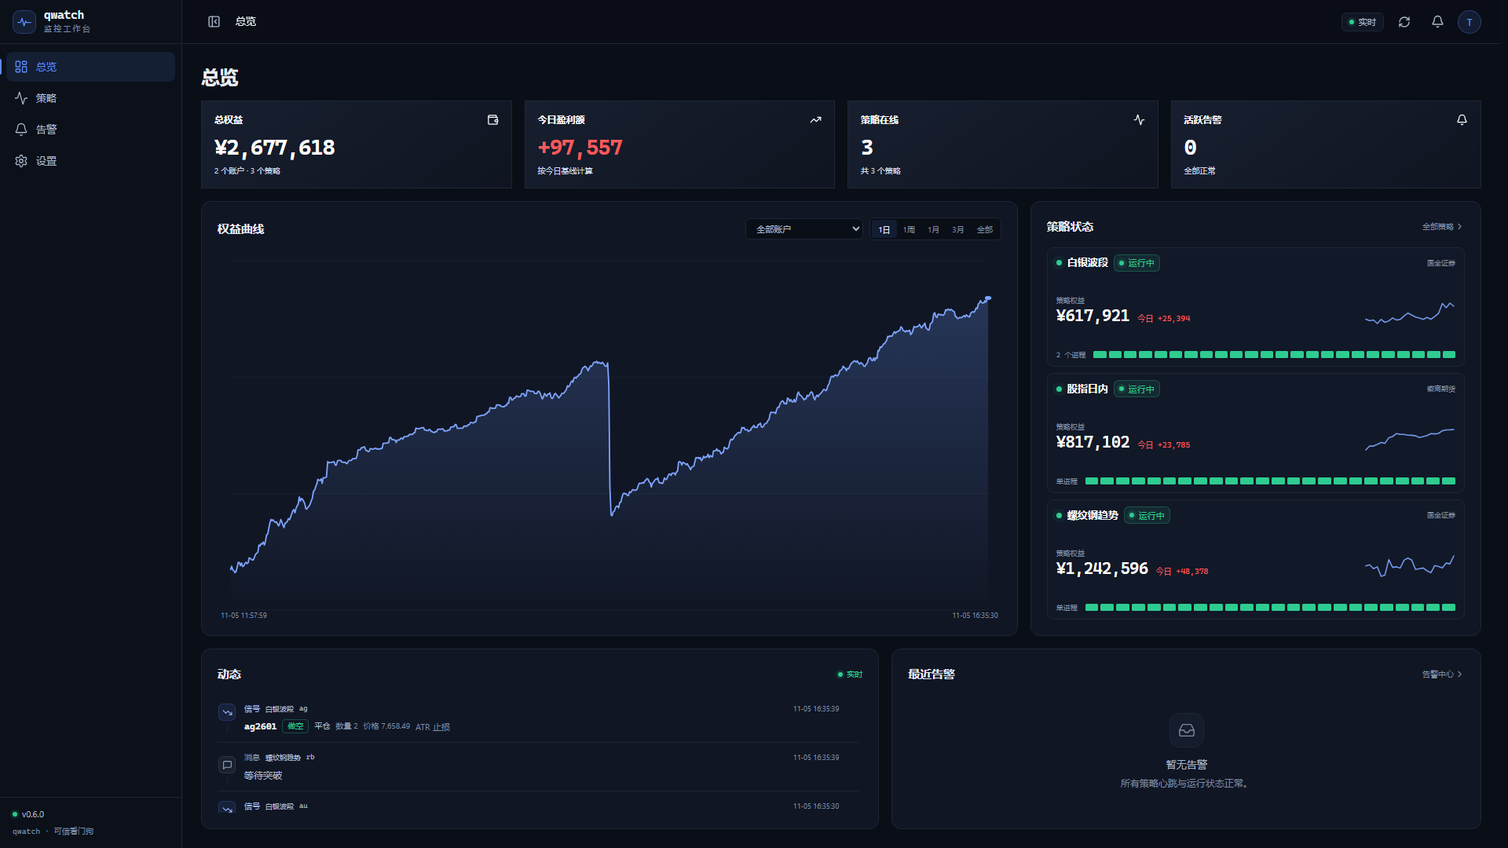
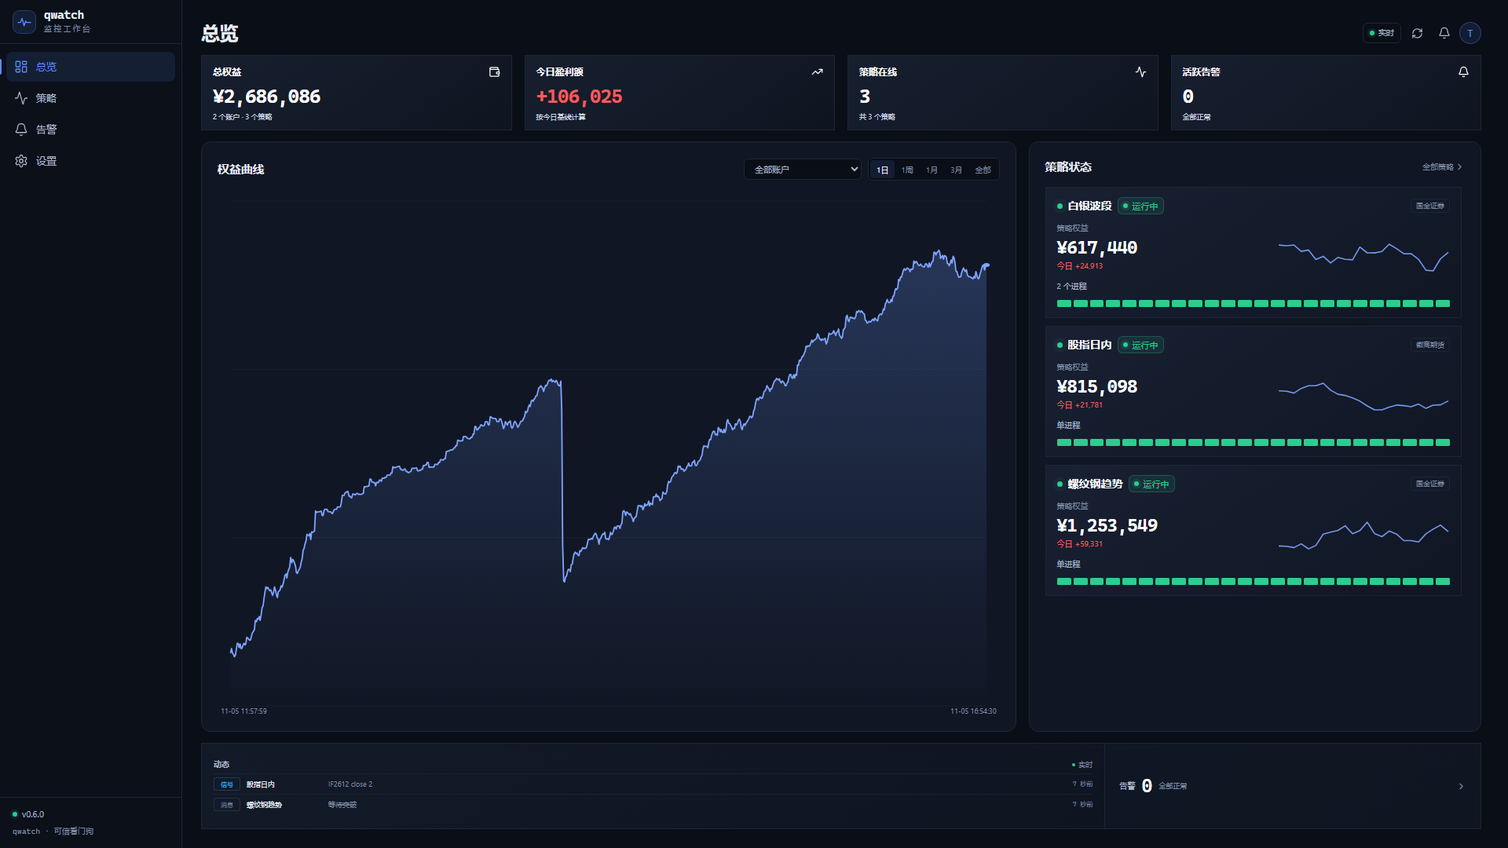
feat: immersive overview with scrollable strategy cards

diff --git a/frontend/src/views/Overview.vue b/frontend/src/views/Overview.vue
@@ -10,15 +10,13 @@ import { useRealtimeStore } from '@/stores/realtime';
 import { useSettingsStore } from '@/stores/settings';
 import { fmtNumber, fromNow } from '@/utils/format';
 import { ruleLabel } from '@/utils/catalog';
-import ActivityFeed from '@/components/ActivityFeed.vue';
 import EmptyState from '@/components/EmptyState.vue';
-import HeartbeatGrid from '@/components/HeartbeatGrid.vue';
+import GroupCard from '@/components/GroupCard.vue';
 import NavChart from '@/components/NavChart.vue';
 import NavSparkline from '@/components/NavSparkline.vue';
 import PageHeader from '@/components/PageHeader.vue';
 import SectionCard from '@/components/SectionCard.vue';
-import StatusDot from '@/components/StatusDot.vue';
-import StatusTag from '@/components/StatusTag.vue';
+import StatusControls from '@/components/StatusControls.vue';
 
 const settings = useSettingsStore();
 const realtime = useRealtimeStore();
@@ -160,7 +158,9 @@ onBeforeUnmount(() => {
 
 <template>
   <div class="page overview-page">
-    <PageHeader title="总览" />
+    <PageHeader title="总览">
+      <template #extra><StatusControls /></template>
+    </PageHeader>
 
     <div v-if="loading && !data" class="skeleton-page">
       <div class="summary-grid">
@@ -224,147 +224,115 @@ onBeforeUnmount(() => {
 
         <SectionCard title="策略状态">
           <template #extra><router-link to="/strategies" class="link-more">全部策略 <ChevronRight :size="13" /></router-link></template>
-          <div v-if="sortedRunners.length" class="ov-status-list">
-            <router-link v-for="runner in sortedRunners" :key="runner.id" :to="'/strategies/' + runner.id" class="ov-status-row">
-              <div class="ov-row-top">
-                <StatusDot :status="runner.status" :size="7" :pulse="runner.status === 'running'" />
-                <strong class="ov-row-name">{{ runner.name }}</strong>
-                <StatusTag :status="runner.status" compact />
-                <span class="ov-row-account">{{ runner.account_name }}</span>
-              </div>
-              <div class="ov-row-main">
-                <div class="ov-row-value"><span>策略权益</span><strong class="mono">{{ runner.equity !== null && runner.equity !== undefined ? '¥' + fmtNumber(runner.equity, 0) : '—' }}</strong></div>
-                <span class="ov-row-today" :class="Number(runner.today_pnl) >= 0 ? 'up' : 'down'">今日 {{ runner.today_pnl !== null && runner.today_pnl !== undefined ? (Number(runner.today_pnl) >= 0 ? '+' : '') + fmtNumber(runner.today_pnl, 0) : '—' }}</span>
-                <NavSparkline v-if="runner.equity_sparkline?.length" class="spark" :values="runner.equity_sparkline" :width="116" :height="30" />
-              </div>
-              <div class="ov-row-foot">
-                <span>{{ runner.process_count > 1 ? runner.process_count + ' 个进程' : '单进程' }}</span>
-                <HeartbeatGrid stretch :status="runner.status" :last-seen="runner.last_seen" />
-              </div>
-            </router-link>
+          <div v-if="sortedRunners.length" class="strategy-column">
+            <GroupCard v-for="runner in sortedRunners" :key="runner.id" :runner="runner" />
           </div>
           <EmptyState v-else compact title="还没有策略" description="前往「策略」页新建策略并生成接入令牌。" />
         </SectionCard>
       </div>
 
-      <div class="overview-bottom">
-        <SectionCard title="动态">
-          <template #extra><span class="live-hint" :class="{ live: realtime.live }"><StatusDot :status="realtime.live ? 'running' : 'warn'" :size="6" />{{ realtime.live ? '实时' : '轮询' }}</span></template>
-          <div class="activity-scroll">
-            <ActivityFeed :events="recentEvents" show-runner clickable empty-title="暂无动态" empty-desc="策略上报消息或信号后会出现在这里。" @select="openEvent" />
-          </div>
-        </SectionCard>
-        <SectionCard title="最近告警">
-          <template #extra><router-link to="/alerts" class="link-more">告警中心 <ChevronRight :size="13" /></router-link></template>
-          <div v-if="recentAlerts.length" class="alert-feed">
-            <router-link v-for="alert in recentAlerts" :key="alert.id" to="/alerts" class="alert-item">
-              <span class="rule-chip">{{ ruleLabel(alert.rule) }}</span>
-              <div class="alert-body"><p class="alert-summary">{{ alert.summary }}</p><p class="alert-meta mono">{{ alert.runner_name }} · {{ fromNow(alert.starts_at) }}</p></div>
-              <span class="alert-status" :class="alert.status">{{ alert.status === 'firing' ? '触发中' : alert.status === 'acknowledged' ? '已确认' : '已恢复' }}</span>
-            </router-link>
-          </div>
-          <EmptyState v-else compact title="暂无告警" description="所有策略心跳与运行状态正常。" />
-        </SectionCard>
+      <div class="overview-ticker">
+        <div class="ticker-feed">
+          <div class="ticker-head"><span>动态</span><span class="ticker-live"><i />实时</span></div>
+          <button v-for="event in recentEvents.slice(0, 2)" :key="event.id" type="button" class="ticker-event" @click="openEvent(event)">
+            <span class="ticker-type" :class="event.type">{{ event.type === 'signal' ? '信号' : '消息' }}</span>
+            <strong>{{ event.runner_name || event.instrument }}</strong>
+            <span class="ticker-text">{{ event.type === 'signal' ? event.symbol + ' ' + event.action + ' ' + event.qty : event.text }}</span>
+            <time>{{ fromNow(event.ts) }}</time>
+          </button>
+        </div>
+        <router-link to="/alerts" class="ticker-alert" :class="{ active: summary.activeAlerts > 0 }">
+          <span class="ticker-alert-label">告警</span>
+          <strong>{{ summary.activeAlerts }}</strong>
+          <span>{{ summary.activeAlerts > 0 ? '需要处理' : '全部正常' }}</span>
+          <ChevronRight :size="13" />
+        </router-link>
       </div>
     </template>
   </div>
 </template>
 
 <style scoped>
-.overview-page { height: 100%; min-height: 0; overflow: hidden; }
-.overview-page > .summary-grid { flex: none; }
+.overview-page { height: 100%; min-height: 0; overflow: hidden; gap: 14px; }
+.overview-page > .summary-grid { flex: none; height: 96px; }
 .skeleton-page { display: flex; flex-direction: column; gap: var(--gap); }
 .summary-grid { display: grid; grid-template-columns: repeat(4, minmax(0, 1fr)); gap: var(--gap); }
-.ov-kpi { display: flex; flex-direction: column; align-items: flex-start; min-height: 104px; padding: 14px 16px; border: 1px solid var(--border); border-radius: var(--radius-lg); background: linear-gradient(145deg, rgba(29, 38, 58, 0.7), rgba(17, 23, 36, 0.7)); color: inherit; }
+.ov-kpi { display: flex; flex-direction: column; align-items: flex-start; min-height: 0; padding: 11px 14px; border: 1px solid var(--border); border-radius: var(--radius-lg); background: linear-gradient(145deg, rgba(29, 38, 58, 0.7), rgba(17, 23, 36, 0.7)); color: inherit; }
 .ov-kpi-top { width: 100%; display: flex; align-items: center; justify-content: space-between; color: #ffffff; font-size: 12px; font-weight: 600; }
 .ov-kpi-label { color: #ffffff; font-weight: 600; }
-.ov-kpi-value { width: 100%; margin-top: 10px; font-family: var(--font-mono); font-size: 28px; font-weight: 700; letter-spacing: -0.04em; color: #ffffff; text-align: left; white-space: nowrap; line-height: 1.15; }
+.ov-kpi-value { width: 100%; margin-top: 8px; font-family: var(--font-mono); font-size: 25px; font-weight: 700; letter-spacing: -0.04em; color: #ffffff; text-align: left; white-space: nowrap; line-height: 1.15; }
 .ov-kpi-value.up { color: var(--up); }
 .ov-kpi-value.down { color: var(--down); }
 .ov-kpi-value.danger, .danger { color: var(--danger); }
-.ov-kpi-foot { margin-top: auto; padding-top: 6px; color: #cbd5e5; font-size: 10px; }
+.ov-kpi-foot { margin-top: auto; padding-top: 5px; color: #cbd5e5; font-size: 9px; }
 .ov-kpi.link:hover { border-color: var(--border-strong); }
-.overview-main { flex: 1; min-height: 0; display: grid; grid-template-columns: minmax(0, 1.72fr) minmax(360px, 0.95fr); gap: var(--gap); align-items: stretch; }
+.up { color: var(--up) !important; }
+.down { color: var(--down) !important; }
+
+.overview-main { flex: 1; min-height: 0; display: grid; grid-template-columns: minmax(0, 1.8fr) minmax(400px, 1fr); gap: var(--gap); align-items: stretch; }
 .overview-main > :deep(.section-card) { height: 100%; min-height: 0; }
 .overview-main :deep(.panel-head) { flex: none; }
 .chart-wrap { flex: 1; min-height: 0; display: flex; }
 .chart-wrap :deep(.nav-chart) { height: 100% !important; }
-.overview-main .strategy-column { flex: 1; min-height: 0; max-height: none; }
-.ov-status-list { flex: 1; min-height: 0; display: flex; flex-direction: column; gap: 8px; }
-.ov-status-row { flex: 1; min-height: 0; display: flex; flex-direction: column; justify-content: space-between; gap: 5px; padding: 8px 11px; border: 1px solid var(--border); border-radius: 8px; background: rgba(21, 28, 44, 0.38); color: inherit; transition: border-color 150ms ease, background-color 150ms ease; }
-.ov-status-row:hover { border-color: var(--border-strong); background: rgba(26, 35, 54, 0.7); }
-.ov-row-top { display: flex; align-items: center; gap: 7px; min-width: 0; }
-.ov-row-name { min-width: 0; color: #fff; font-size: 13px; font-weight: 600; overflow: hidden; white-space: nowrap; text-overflow: ellipsis; }
-.ov-row-account { margin-left: auto; max-width: 110px; color: var(--text-3); font-size: 9px; overflow: hidden; white-space: nowrap; text-overflow: ellipsis; }
-.ov-row-main { display: flex; align-items: flex-end; gap: 10px; min-width: 0; }
-.ov-row-value { display: flex; flex-direction: column; gap: 1px; min-width: 0; }
-.ov-row-value span { color: var(--text-3); font-size: 9px; }
-.ov-row-value strong { color: #fff; font: 600 21px/1.1 var(--font-mono); letter-spacing: -0.03em; white-space: nowrap; }
-.ov-row-today { padding-bottom: 2px; font: 10px var(--font-mono); white-space: nowrap; }
-.ov-row-main .spark { margin-left: auto; width: 116px; flex: none; opacity: 0.9; }
-.ov-row-foot { display: flex; align-items: center; gap: 10px; min-width: 0; color: var(--text-3); font: 9px var(--font-mono); }
-.ov-row-foot .hb-grid { flex: 1; min-width: 0; }
-.up { color: var(--up) !important; }
-.down { color: var(--down) !important; }
+.chart-wrap { transition: opacity 160ms ease; }
+.chart-wrap.dimmed { opacity: 0.55; }
+
 .chart-tools { display: flex; align-items: center; gap: 8px; flex-wrap: wrap; }
 .chart-select { height: 27px; min-width: 150px; max-width: 220px; padding: 0 24px 0 9px; border: 1px solid var(--border); border-radius: 6px; background: var(--bg); color: var(--text-2); font-size: 11px; outline: none; cursor: pointer; }
 .range-tabs { display: inline-flex; padding: 2px; border: 1px solid var(--border); border-radius: 6px; background: var(--bg); }
 .range-tabs button { height: 23px; padding: 0 8px; border: 0; border-radius: 4px; background: transparent; color: var(--text-3); font-size: 10px; cursor: pointer; }
 .range-tabs button.active { background: var(--primary-soft); color: var(--text); }
-.chart-wrap { transition: opacity 160ms ease; }
-.chart-wrap.dimmed { opacity: 0.55; }
+
 .strategy-column { display: flex; flex: 1; flex-direction: column; gap: 10px; min-height: 0; overflow-y: auto; overscroll-behavior: contain; padding-right: 4px; scrollbar-width: thin; scrollbar-color: #2b3a55 transparent; }
+.strategy-column :deep(.group-card) { flex: 0 0 auto; }
 .strategy-column::-webkit-scrollbar { width: 5px; }
 .strategy-column::-webkit-scrollbar-thumb { background: #2b3a55; border-radius: 999px; }
 .strategy-column::-webkit-scrollbar-track { background: transparent; }
-.activity-scroll { max-height: 460px; overflow-y: auto; overscroll-behavior: contain; padding-right: 4px; scrollbar-width: thin; scrollbar-color: #2b3a55 transparent; }
-.activity-scroll::-webkit-scrollbar { width: 5px; }
-.activity-scroll::-webkit-scrollbar-thumb { background: #2b3a55; border-radius: 999px; }
-.activity-scroll::-webkit-scrollbar-track { background: transparent; }
-.live-hint { display: inline-flex; align-items: center; gap: 5px; color: var(--text-3); font-size: 10px; }
-.live-hint.live { color: var(--down); }
-.overview-bottom { flex: none; height: 230px; min-height: 0; display: grid; grid-template-columns: minmax(0, 1.15fr) minmax(0, 1fr); gap: var(--gap); }
-.overview-bottom > :deep(.section-card) { height: 100%; min-height: 0; }
-.overview-bottom .activity-scroll { flex: 1; min-height: 0; max-height: none; }
-.overview-bottom .alert-feed { flex: 1; min-height: 0; overflow-y: auto; }
-.alert-feed { display: flex; flex-direction: column; }
-.alert-item { display: flex; align-items: flex-start; gap: 9px; padding: 9px 0; border-bottom: 1px solid var(--border); color: inherit; }
-.alert-item:last-child { border-bottom: 0; }
-.rule-chip { flex: 0 0 auto; padding: 2px 5px; border: 1px solid rgba(240, 68, 56, 0.25); border-radius: 4px; color: #f47c74; font-size: 9px; }
-.alert-body { min-width: 0; flex: 1; }
-.alert-summary { font-size: 11px; line-height: 1.5; color: var(--text-2); }
-.alert-meta { margin-top: 2px; font-size: 9px; color: var(--text-3); }
-.alert-status { font-size: 9px; color: var(--text-3); white-space: nowrap; }
 .link-more { display: inline-flex; align-items: center; gap: 1px; color: var(--text-3); font-size: 10px; }
 .link-more:hover { color: var(--text-2); }
+
+.overview-ticker { flex: none; height: 110px; display: grid; grid-template-columns: minmax(0, 2.4fr) minmax(230px, 1fr); border: 1px solid var(--border); border-radius: var(--radius-lg); background: linear-gradient(145deg, rgba(22, 30, 47, 0.72), rgba(14, 20, 32, 0.8)); overflow: hidden; }
+.ticker-feed { min-width: 0; padding: 9px 15px 8px; display: flex; flex-direction: column; justify-content: center; }
+.ticker-head { display: flex; align-items: center; justify-content: space-between; margin-bottom: 3px; color: var(--text-2); font-size: 10px; font-weight: 600; }
+.ticker-live { display: inline-flex; align-items: center; gap: 4px; color: var(--text-3); font-size: 9px; font-weight: 400; }
+.ticker-live i { width: 4px; height: 4px; border-radius: 50%; background: var(--down); }
+.ticker-event { display: grid; grid-template-columns: 34px 96px minmax(0, 1fr) auto; align-items: center; gap: 8px; width: 100%; padding: 4px 0; border: 0; border-top: 1px solid rgba(125, 139, 161, 0.1); background: transparent; color: inherit; text-align: left; cursor: pointer; }
+.ticker-event:hover { color: #fff; }
+.ticker-type { padding: 2px 4px; border: 1px solid rgba(56, 189, 248, 0.22); border-radius: 3px; color: #38bdf8; font-size: 8px; text-align: center; }
+.ticker-type.message { border-color: rgba(125, 139, 161, 0.22); color: var(--text-3); }
+.ticker-event strong { color: var(--text); font-size: 9px; font-weight: 500; white-space: nowrap; overflow: hidden; text-overflow: ellipsis; }
+.ticker-text { color: var(--text-3); font-size: 9px; white-space: nowrap; overflow: hidden; text-overflow: ellipsis; }
+.ticker-event time { color: var(--text-3); font: 8px var(--font-mono); white-space: nowrap; }
+.ticker-alert { display: flex; align-items: center; gap: 8px; padding: 0 18px; border-left: 1px solid var(--border); color: var(--text-3); background: rgba(21, 28, 44, 0.35); }
+.ticker-alert:hover { background: rgba(28, 38, 58, 0.55); }
+.ticker-alert-label { font-size: 10px; color: var(--text-2); }
+.ticker-alert strong { color: #fff; font: 600 24px var(--font-mono); line-height: 1; }
+.ticker-alert span:nth-of-type(2) { color: var(--text-3); font-size: 9px; }
+.ticker-alert svg { margin-left: auto; color: var(--text-3); }
+.ticker-alert.active { border-left-color: rgba(240, 68, 56, 0.35); }
+.ticker-alert.active strong, .ticker-alert.active span:nth-of-type(2) { color: var(--danger); }
+
 @media (max-height: 820px) {
   .overview-page { gap: 12px; }
   .overview-page > .summary-grid { height: 88px; }
-  .ov-kpi { min-height: 80px; padding: 9px 12px; }
+  .ov-kpi { padding: 9px 12px; }
   .ov-kpi-value { margin-top: 6px; font-size: 22px; }
   .ov-kpi-foot { font-size: 8px; }
-  .overview-bottom { height: 170px; }
-  .ov-status-list { gap: 6px; }
-  .ov-status-row { padding: 6px 9px; gap: 3px; }
-  .ov-row-name { font-size: 11px; }
-  .ov-row-value span { display: none; }
-  .ov-row-value strong { font-size: 18px; }
-  .ov-row-main { align-items: center; gap: 8px; }
-  .ov-row-main .spark { width: 104px; }
-  .ov-row-foot { font-size: 8px; }
-  .ov-row-foot > span:first-child { display: none; }
-  .overview-bottom :deep(.empty) { padding: 6px 4px; }
-  .overview-bottom :deep(.icon) { width: 26px; height: 26px; margin-bottom: 3px; border-radius: 8px; }
-  .overview-bottom :deep(.title) { font-size: 11px; }
-  .overview-bottom :deep(.desc) { display: none; }
+  .overview-ticker { height: 96px; }
+  .ticker-feed { padding: 7px 13px 6px; }
+  .ticker-event { padding: 3px 0; }
+  .ticker-alert strong { font-size: 21px; }
 }
 @media (max-width: 1100px) {
   .summary-grid { grid-template-columns: repeat(2, minmax(0, 1fr)); }
   .overview-page { height: auto; overflow: visible; }
-  .overview-main { flex: none; min-height: 520px; grid-template-columns: minmax(0, 1fr); }
-  .overview-bottom { height: 260px; }
+  .overview-main { flex: none; min-height: 560px; grid-template-columns: minmax(0, 1fr); }
   .overview-main > :deep(.section-card) { height: auto; }
-  .strategy-column { max-height: 520px; }
+  .strategy-column { max-height: 560px; }
+  .overview-ticker { height: 110px; }
+}
+@media (max-width: 899px) {
+  .overview-page :deep(.status-controls) { display: none; }
 }
 @media (max-width: 760px) {
   .summary-grid { grid-template-columns: repeat(2, minmax(0, 1fr)); }
@@ -373,5 +341,7 @@ onBeforeUnmount(() => {
   .chart-tools { align-items: flex-start; flex-direction: column; width: 100%; }
   .chart-select { width: 100%; max-width: none; }
   .range-tabs { align-self: stretch; justify-content: space-between; }
+  .overview-ticker { height: auto; grid-template-columns: 1fr; }
+  .ticker-alert { min-height: 66px; border-left: 0; border-top: 1px solid var(--border); }
 }
 </style>

diff --git a/frontend/src/components/StatusControls.vue b/frontend/src/components/StatusControls.vue
@@ -1,0 +1,87 @@
+<script setup lang="ts">
+// StatusControls.vue — 顶栏状态控制组：实时/刷新/告警/账号；总览沉浸模式下复用。
+import { computed, onBeforeUnmount, onMounted, ref, watch } from 'vue';
+import { useRouter } from 'vue-router';
+import { NDropdown, useMessage } from 'naive-ui';
+import { Bell, RefreshCw } from 'lucide-vue-next';
+import { api, apiMeta } from '@/api/client';
+import { useAuthStore } from '@/stores/auth';
+import { useRealtimeStore } from '@/stores/realtime';
+import { useSettingsStore } from '@/stores/settings';
+import StatusDot from './StatusDot.vue';
+
+const router = useRouter();
+const message = useMessage();
+const auth = useAuthStore();
+const realtime = useRealtimeStore();
+const settings = useSettingsStore();
+const alertCount = ref(0);
+let timer: number | undefined;
+
+const stream = computed(() => {
+  if (realtime.live) return { text: '实时', dot: 'running' as const, title: 'SSE 实时连接正常' };
+  if (realtime.state === 'connecting') return { text: '连接中', dot: 'warn' as const, title: '正在建立 SSE 实时连接' };
+  if (realtime.state === 'reconnecting') return { text: '重连中', dot: 'warn' as const, title: '实时连接中断，自动重连中' };
+  return { text: '轮询', dot: 'warn' as const, title: '实时连接不可用，使用轮询兜底' };
+});
+const userOptions = computed(() => [
+  { key: 'account', label: auth.user?.name || 'Trader', disabled: true },
+  { type: 'divider', key: 'd1' },
+  { key: 'logout', label: '退出登录' },
+]);
+
+async function loadAlertCount(): Promise<void> {
+  try { alertCount.value = (await api.alerts('active')).active_count; }
+  catch { /* 顶栏不阻塞页面 */ }
+}
+function refresh(): void {
+  settings.triggerRefresh();
+  void loadAlertCount();
+}
+function onUserSelect(key: string): void {
+  if (key !== 'logout') return;
+  auth.logout().finally(() => {
+    message.success('已退出登录');
+    router.replace('/login');
+  });
+}
+function onAlertsChanged(): void { void loadAlertCount(); }
+watch(() => realtime.lastAlertChangeAt, () => { void loadAlertCount(); });
+onMounted(() => {
+  void loadAlertCount();
+  timer = window.setInterval(loadAlertCount, 60000);
+  window.addEventListener('qwatch:alerts-changed', onAlertsChanged);
+});
+onBeforeUnmount(() => {
+  window.clearInterval(timer);
+  window.removeEventListener('qwatch:alerts-changed', onAlertsChanged);
+});
+</script>
+
+<template>
+  <div class="status-controls">
+    <span class="stream" :title="stream.title"><StatusDot :status="stream.dot" :size="6" />{{ stream.text }}</span>
+    <button class="ctl" type="button" aria-label="刷新" title="刷新全部数据" @click="refresh">
+      <RefreshCw :size="15" :class="{ spinning: apiMeta.pending > 0 }" />
+    </button>
+    <button class="ctl bell" :class="{ 'has-alerts': alertCount > 0 }" type="button" aria-label="告警中心" title="告警中心" @click="router.push('/alerts')">
+      <Bell :size="16" />
+      <span v-if="alertCount" class="dot">{{ alertCount > 9 ? '9+' : alertCount }}</span>
+    </button>
+    <n-dropdown trigger="click" :options="userOptions" @select="onUserSelect">
+      <button class="avatar" type="button" :aria-label="'账号：' + (auth.user?.name || 'Trader')">{{ (auth.user?.name || 'T').slice(0, 1).toUpperCase() }}</button>
+    </n-dropdown>
+  </div>
+</template>
+
+<style scoped>
+.status-controls { display: flex; align-items: center; gap: 6px; }
+.stream { display: inline-flex; align-items: center; gap: 5px; height: 26px; padding: 0 8px; border: 1px solid var(--border); border-radius: 6px; color: var(--text-2); font-size: 10px; white-space: nowrap; }
+.ctl { position: relative; width: 28px; height: 28px; display: grid; place-items: center; border: 1px solid transparent; border-radius: 7px; background: transparent; color: var(--text-2); cursor: pointer; }
+.ctl:hover { border-color: var(--border); background: var(--surface-2); color: var(--text); }
+.ctl.has-alerts { color: #ff8f86; background: rgba(240,68,56,.08); border-color: rgba(240,68,56,.2); }
+.dot { position: absolute; top: -4px; right: -5px; min-width: 15px; height: 15px; padding: 0 3px; display: grid; place-items: center; border-radius: 8px; border: 2px solid var(--bg); background: #f04438; color: #fff; font: 9px var(--font-mono); }
+.avatar { width: 28px; height: 28px; border-radius: 50%; border: 1px solid rgba(91,140,255,.32); background: var(--primary-soft); color: var(--primary); font: 600 11px var(--font); cursor: pointer; }
+.spinning { animation: spin .9s linear infinite; }
+@keyframes spin { to { transform: rotate(360deg); } }
+</style>

diff --git a/frontend/src/layouts/AppShell.vue b/frontend/src/layouts/AppShell.vue
@@ -15,6 +15,7 @@ import { useAuthStore } from '@/stores/auth';
 import { useRealtimeStore } from '@/stores/realtime';
 import { useSettingsStore } from '@/stores/settings';
 import BrandMark from '@/components/BrandMark.vue';
+import StatusControls from '@/components/StatusControls.vue';
 import StatusDot from '@/components/StatusDot.vue';
 
 interface NavItem { to: string; label: string; icon: Component; badge?: boolean }
@@ -43,6 +44,8 @@ let mql: MediaQueryList | null = null;
 const collapsed = computed(() => !isMobile.value && settings.collapsed);
 const activePath = computed(() => route.path);
 const breadcrumbParent = computed(() => route.meta.parent || null);
+const isOverview = computed(() => route.name === 'overview');
+const showTopbar = computed(() => !isOverview.value || isMobile.value);
 
 const streamChip = computed(() => {
   if (realtime.live) return { text: '实时', dot: 'running' as const, title: 'SSE 实时连接正常' };
@@ -164,7 +167,7 @@ onBeforeUnmount(() => {
     <div v-if="isMobile && drawerOpen" class="overlay" @click="drawerOpen = false" />
 
     <div class="main">
-      <header class="topbar">
+      <header v-if="showTopbar" class="topbar">
         <div class="topbar-left">
           <button class="icon-btn" type="button" :aria-label="isMobile ? '打开菜单' : collapsed ? '展开侧栏' : '收起侧栏'" @click="onMenuClick">
             <component :is="isMobile ? Menu : collapsed ? PanelLeftOpen : PanelLeftClose" :size="17" />
@@ -177,31 +180,7 @@ onBeforeUnmount(() => {
             <span class="current">{{ route.meta.title }}</span>
           </div>
         </div>
-        <div class="topbar-right">
-          <span class="stream-chip" :title="streamChip.title">
-            <StatusDot :status="streamChip.dot" :size="6" />
-            <span class="stream-text">{{ streamChip.text }}</span>
-          </span>
-            <button class="icon-btn" type="button" aria-label="刷新" title="刷新全部数据" @click="onRefresh">
-            <RefreshCw :size="16" :class="{ spinning: apiMeta.pending > 0 }" />
-          </button>
-          <button
-            class="icon-btn bell"
-            :class="{ 'has-alerts': alertCount > 0 }"
-            type="button"
-            aria-label="告警中心"
-            title="告警中心"
-            @click="router.push('/alerts')"
-          >
-            <Bell :size="17" />
-            <span v-if="alertCount > 0" class="bell-dot">{{ alertCount > 9 ? '9+' : alertCount }}</span>
-          </button>
-          <n-dropdown trigger="click" :options="userOptions" @select="onUserSelect">
-            <button class="avatar" type="button" :aria-label="'账号：' + (auth.user?.name || 'Trader')">
-              {{ (auth.user?.name || 'T').slice(0, 1).toUpperCase() }}
-            </button>
-          </n-dropdown>
-        </div>
+        <StatusControls />
       </header>
       <main class="content">
         <router-view v-slot="{ Component: ViewComponent }">
